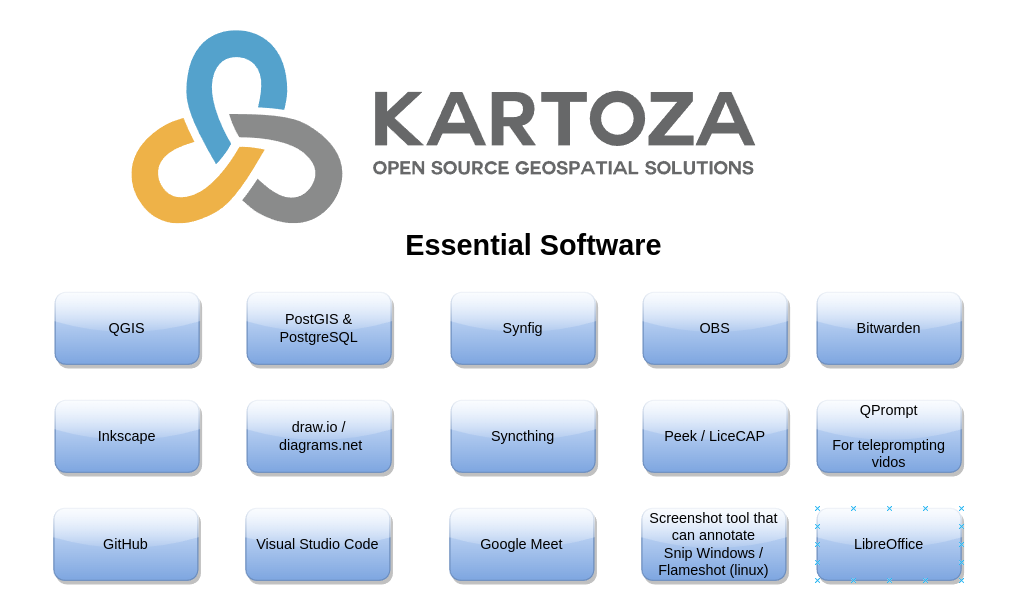
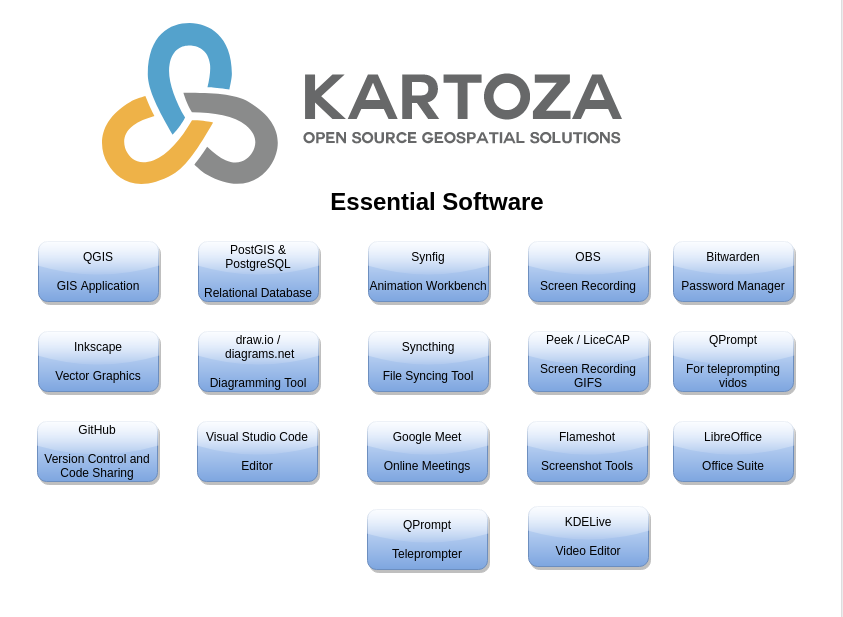
Adding baseline software notes

diff --git a/docs/src/company/kartoza/essential_software.md b/docs/src/company/kartoza/essential_software.md
@@ -1,0 +1,173 @@
+# Essential Software
+
+![Essential Software](./img/essential_software.png)
+
+In this section we will enumerate all of the software packages you should have installed on your computer. There are some items that can be considered optional, but you should be aware of all of these tools and install them when and as the need arises.
+
+## QGIS
+
+![QGIS](./img/qgis.png)
+
+URL: []()
+Purpose:
+Notes:
+
+## Postgresql
+
+![Postgresql](./img/postgres.png)
+
+URL: [www.postgresql.org](https://www.postgresql.org/)
+Purpose: Relational database management system with GIS support.
+Notes:
+
+## LibreOffice
+
+![LibreOffice](./img/libreoffice.png)
+
+URL: [libreoffice.org/](https://libreoffice.org/)
+Purpose: Office productivity suite.
+Notes:
+
+## Git & GitHub Account
+
+![Git](./img/git.png)
+
+URL: [github.org](https://github.org)
+Purpose: Version control of digital assets
+Notes: Although GitHub is not Git, you need to be set up to work on github.
+
+##
+
+![](./img/.png)
+
+URL: []()
+Purpose:
+Notes:
+
+##
+
+![](./img/.png)
+
+URL: []()
+Purpose:
+Notes:
+
+##
+
+![](./img/.png)
+
+URL: []()
+Purpose:
+Notes:
+
+##
+
+![](./img/.png)
+
+URL: []()
+Purpose:
+Notes:
+
+##
+
+![](./img/.png)
+
+URL: []()
+Purpose:
+Notes:
+
+##
+
+![](./img/.png)
+
+URL: []()
+Purpose:
+Notes:
+
+##
+
+![](./img/.png)
+
+URL: []()
+Purpose:
+Notes:
+
+##
+
+![](./img/.png)
+
+URL: []()
+Purpose:
+Notes:
+
+##
+
+![](./img/.png)
+
+URL: []()
+Purpose:
+Notes:
+
+##
+
+![](./img/.png)
+
+URL: []()
+Purpose:
+Notes:
+
+##
+
+![](./img/.png)
+
+URL: []()
+Purpose:
+Notes:
+
+##
+
+![](./img/.png)
+
+URL: []()
+Purpose:
+Notes:
+
+##
+
+![](./img/.png)
+
+URL: []()
+Purpose:
+Notes:
+
+##
+
+![](./img/.png)
+
+URL: []()
+Purpose:
+Notes:
+
+##
+
+![](./img/.png)
+
+URL: []()
+Purpose:
+Notes:
+
+##
+
+![](./img/.png)
+
+URL: []()
+Purpose:
+Notes:
+
+##
+
+![](./img/.png)
+
+URL: []()
+Purpose:
+Notes:

diff --git a/docs/src/company/kartoza/deleteme.md b/docs/src/company/kartoza/deleteme.md
@@ -1,0 +1,16 @@
+# How I made my map
+
+
+## Getting boundaries
+
+https://data.humdata.org/dataset/cod-ab-zaf?
+
+
+I chose this rather than the official SA boundaries because it is recommended
+
+Download the shp zip https://data.humdata.org/dataset/061d4492-56e8-458c-a3fb-e7950991adf0/resource/f5b08257-8d03-48dc-92c8-aaa4fb7285f0/download/zaf_adm_sadb_ocha_20201109_shp.zip
+
+
+
+![Delete me image](img/deleteme.png)
+

diff --git a/docs/src/company/kartoza/index.md b/docs/src/company/kartoza/index.md
@@ -17,3 +17,4 @@ Learn more at our company website [https://kartoza.com](https://kartoza.com)
 * [Strategic Objective](./strategic_objective.md)
 
 * [Your Kartoza Computer](./setting_up_your_computer.md)
+* [Essential Software](./essential_software.md)

diff --git a/docs/src/company/kartoza/setting_up_your_computer.md b/docs/src/company/kartoza/setting_up_your_computer.md
@@ -101,8 +101,5 @@ You need to have online accounts with the following services:
 
 ![NextCloud 2FA](img/nextcloud-2fa.png)
 
-## Software
-
-![Essential Software](./img/essential_software.png)
 
 ## Skills

diff --git a/docs/src/devops/applications/standard-applications.md b/docs/src/devops/applications/standard-applications.md
@@ -1,0 +1,7 @@
+# Standard Deployment Applications
+
+* Geoserver
+* Filebrowser
+* pg-backups
+* Postgres
+* 
